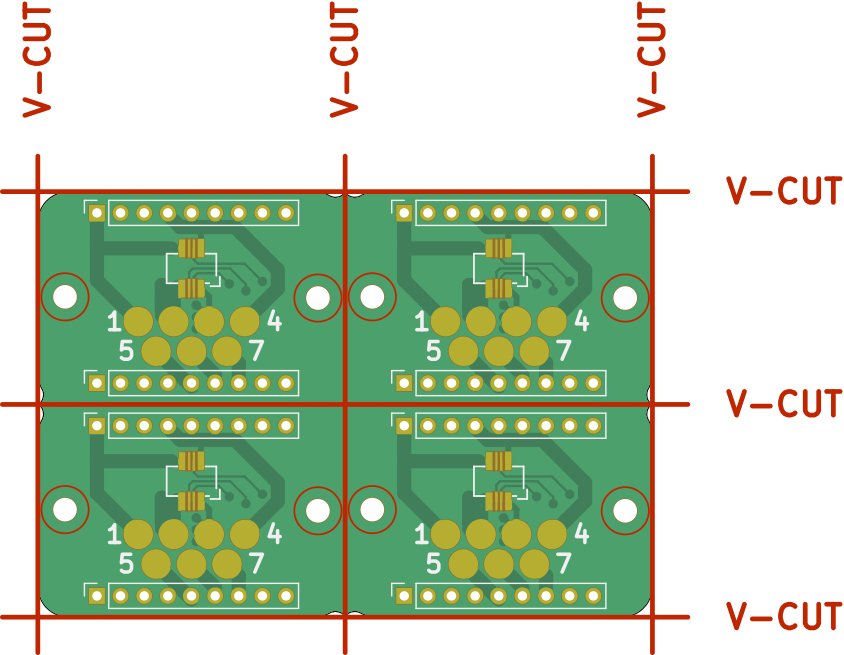
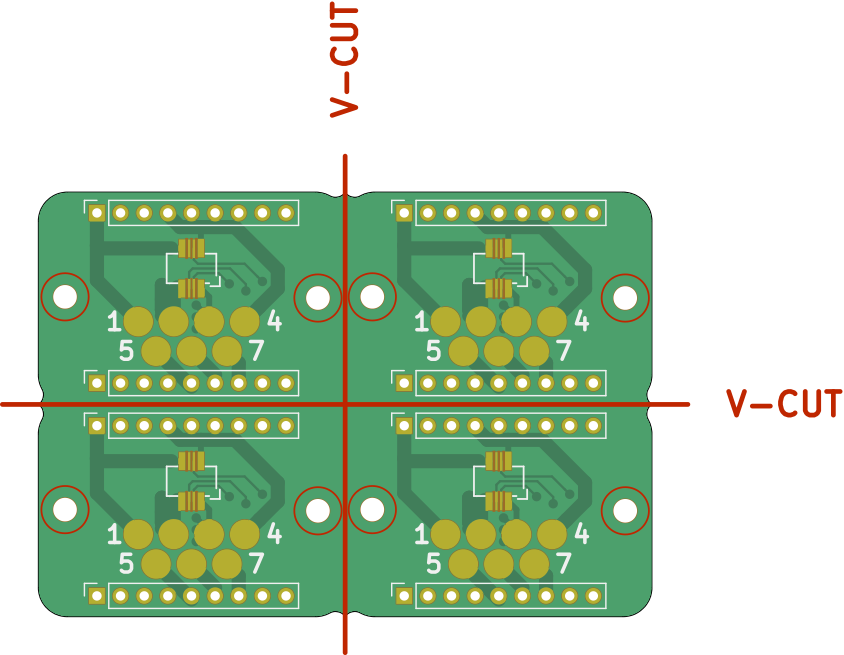
Do not add extra cuts on full frames

diff --git a/kikit/panelize.py b/kikit/panelize.py
@@ -952,7 +952,7 @@ class Panel:
         """
         Add tab annotations for the individual substrates based on their
         bounding boxes. Assign tabs annotations to the edges of the bounding
-        box. You provides a function countFn, widthFn that take edge length and
+        box. You provide a function countFn, widthFn that take edge length and
         direction that return number of tabs per edge or tab width
         respectively.
 
@@ -1025,7 +1025,7 @@ class Panel:
                 self.substrates[i].annotations.append(a)
 
 
-    def buildFullTabs(self):
+    def buildFullTabs(self, framingOffsets):
         """
         Make full tabs. This strategy basically cuts the bounding boxes of the
         PCBs. Not suitable for mousebites. Expects there is a valid partition
@@ -1048,6 +1048,19 @@ class Panel:
         substrateBoundaries = [linestringToSegments(rectToShpBox(s.boundingBox()).exterior)
             for s in self.substrates]
         substrateCuts = [LineString(x) for x in chain(*substrateBoundaries)]
+
+        # Remove outer edges (if any)
+        vspace, hspace = framingOffsets
+        xvalues = list(chain(*[map(lambda x: x[0], line.coords) for line in substrateCuts]))
+        yvalues = list(chain(*[map(lambda x: x[1], line.coords) for line in substrateCuts]))
+        minx, maxx = min(xvalues), max(xvalues)
+        miny, maxy = min(yvalues), max(yvalues)
+
+        substrateCuts = [x for x in substrateCuts if not (
+            (hspace is None and x.coords[0][0] == x.coords[1][0] and x.coords[0][0] in [minx, maxx]) or
+            (vspace is None and x.coords[0][1] == x.coords[1][1] and x.coords[0][1] in [miny, maxy])
+        )]
+
         return substrateCuts
 
     def inheritCopperLayers(self, board):

diff --git a/kikit/panelize_ui_impl.py b/kikit/panelize_ui_impl.py
@@ -234,7 +234,7 @@ def buildLayout(layout, panel, sourceBoard, sourceArea):
     except KeyError as e:
         raise PresetError(f"Missing parameter '{e}' in section 'layout'")
 
-def buildTabs(properties, panel, substrates, boundarySubstrates):
+def buildTabs(properties, panel, substrates, boundarySubstrates, frameOffsets):
     """
     Build tabs for the substrates in between the boards. Return a list of cuts.
     """
@@ -258,7 +258,7 @@ def buildTabs(properties, panel, substrates, boundarySubstrates):
             panel.buildTabAnnotationsCorners(properties["width"])
             return panel.buildTabsFromAnnotations()
         if type == "full":
-            return panel.buildFullTabs()
+            return panel.buildFullTabs(frameOffsets)
         if type == "annotation":
             return panel.buildTabsFromAnnotations()
         raise PresetError(f"Unknown type '{type}' of tabs specification.")

diff --git a/kikit/panelize_ui.py b/kikit/panelize_ui.py
@@ -178,7 +178,7 @@ def panelize(input, output, preset, layout, source, tabs, cuts, framing,
         panel.buildPartitionLineFromBB(framingSubstrates)
 
         tabCuts = ki.buildTabs(preset["tabs"], panel, substrates,
-            framingSubstrates)
+            framingSubstrates, ki.frameOffset(preset["framing"]))
         backboneCuts = ki.buildBackBone(preset["layout"], panel, substrates,
             ki.frameOffset(preset["framing"]))
         frameCuts = ki.buildFraming(preset["framing"], panel)

diff --git a/doc/panelization.md b/doc/panelization.md
@@ -228,7 +228,7 @@ individual pieces of substrate) as a shapely box.
 
 #### `buildFullTabs`
 ```
-buildFullTabs(self)
+buildFullTabs(self, framingOffsets)
 ```
 Make full tabs. This strategy basically cuts the bounding boxes of the
 PCBs. Not suitable for mousebites. Expects there is a valid partition
